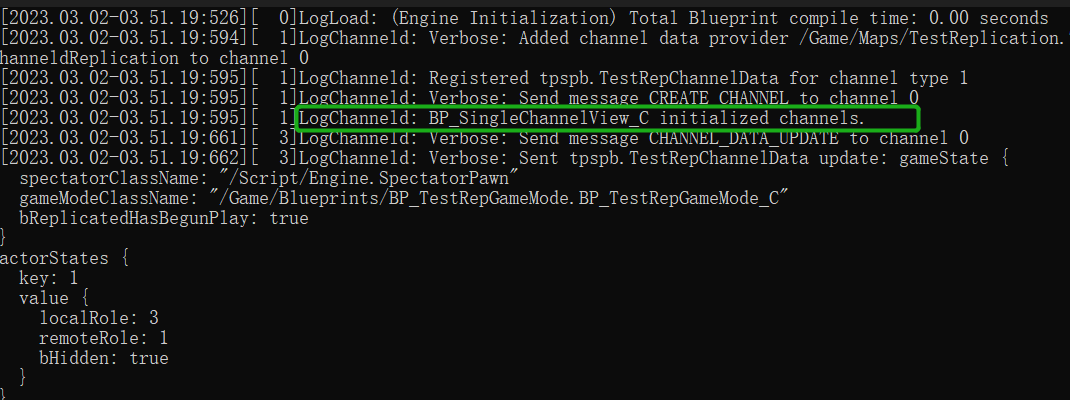
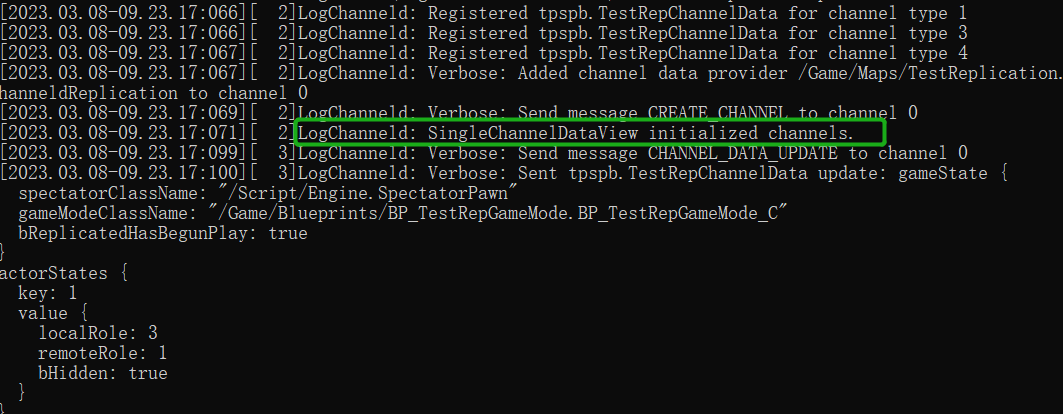
- Updated getting-started doc; - Added default values to UChanneldSettings;

diff --git a/Plugins/ChanneldUE/Source/ChanneldUE/ChanneldSettings.h b/Plugins/ChanneldUE/Source/ChanneldUE/ChanneldSettings.h
@@ -7,6 +7,7 @@
 #include "Tools/TintActor.h"
 #include "Tools/OutlinerActor.h"
 #include "View/PlayerStartLocator.h"
+#include "View/SingleChannelDataView.h"
 #include "ChanneldSettings.generated.h"
 
 /**
@@ -25,7 +26,7 @@ public:
 	void UpdateNetDriverDefinitions();
 
 	UPROPERTY(Config, EditAnywhere, Category="View")
-	TSubclassOf<class UChannelDataView> ChannelDataViewClass;
+	TSubclassOf<class UChannelDataView> ChannelDataViewClass = USingleChannelDataView::StaticClass();
 	// The default channel data message name for each channel type. The entries will be registered in UChannelDataView::Initialize.
 	// Every time the replication code is generated, the entries will be updated with the message names in the generated code.
 	UPROPERTY(Config, EditAnywhere, Category="View")
@@ -37,7 +38,7 @@ public:
 	};
 
 	UPROPERTY(Config, EditAnywhere, Category = "Transport")
-	bool bEnableNetworking = true;
+	bool bEnableNetworking = false;
 	
 	UPROPERTY(Config, EditAnywhere, Category = "Transport")
 	FString ChanneldIpForClient = "127.0.0.1";

diff --git a/Plugins/ChanneldUE/Docs/zh/getting-started.md b/Plugins/ChanneldUE/Docs/zh/getting-started.md
@@ -18,12 +18,22 @@ protoc-gen-go - Protobuf的go代码生成工具
 
 # 2.创建第三人称模板项目
 ## 2.1.创建项目并复制插件
-新建一个基于第三人称模板的UE蓝图项目：在Unreal Project Browser中选择"Game" -> "Third Person" -> "Blueprint"。
+新建一个基于第三人称模板的UE蓝图项目：在Unreal Project Browser中选择"Game" -> "Third Person" -> "C++"。
+
+```
+注意：ChannelUE插件只支持C++项目。如果您使用的是纯蓝图项目，需要先转换为C++项目。
+```
 
 项目创建后，关闭UE编辑器。将1.1.步骤中克隆的插件代码仓库目录复制到项目的`Plugins`目录下。
 
-## 2.2.编译运行项目并开启插件
-双击项目的`*.uproject`文件，再次打开项目。UE编辑器会提示编译插件中的模块。编译完成后，编辑器工具栏会出现插件图标：
+修改项目Build.cs文件，添加插件的模块`ChanneldUE`和`ProtobufUE`：
+```csharp
+PublicDependencyModuleNames.AddRange(new string[] { "Core", "CoreUObject", "Engine", "InputCore", "ChanneldUE", "ProtobufUE" });
+```
+
+## 2.2.重新编译运行项目并开启插件
+在文件浏览器中右键点击项目的`*.uproject`文件，选择"Generate Visual Studio project files"，重新生成项目的解决方案文件。
+在Visual Studio中重新加载解决方案，并编译运行项目。当UE编辑器再次打开时，工具栏会出现插件图标：
 
 ![](../images/toolbar_channeld.png)
 
@@ -36,17 +46,23 @@ protoc-gen-go - Protobuf的go代码生成工具
 
 ![](../images/character_rep_component.png)
 
-然后，新建第三人称控制器的蓝图`ThirdPersonPlayerController`，并为其添加同步组件。
+然后，新建第三人称控制器的蓝图`ThirdPersonPlayerController`，在类默认值中勾选`复制(Replicates)`，并为其添加同步组件：
 
-因为`GameStateBase`和`PlayerState`分别负责同步游戏和玩家中的状态，还需要创建分别为它们创建添加了同步组件的蓝图类：
+![](../images/player_controller_bp.png)
+
+接下来，因为`GameStateBase`和`PlayerState`分别负责同步游戏和玩家中的状态，还需要创建分别为它们创建蓝图类，并同样地，开启`复制(Replicates)`，添加同步组件：
 
 ![](../images/game_state_base.png)
+
+```
+提示：此处选择GameStateBase或ChanneldGameState都可以。如果要在之后的开发中使用到跨服的GameState功能，则需要选择ChanneldGameState。
+```
 
 ![](../images/player_state.png)
 
 
 ```
-提示：记得在添加同步组件后，编译和保存上述蓝图！
+小贴士：记得在开启Relicates和添加同步组件后，编译和保存上述蓝图！
 ```
 
 最后，添加一个新的GameMode蓝图`ThirdPersonGameMode`（如果已存在，则打开），并为其设置Game State Class, Player Controller Class, Player State Class和Default Pawn Class：
@@ -64,15 +80,15 @@ protoc-gen-go - Protobuf的go代码生成工具
 
 ![](../images/settings_view_class.png)
 
-`BP_SingleChannelView`是插件中内置的视图蓝图类，它会在服务端创建**全局频道**，并在客户端连接成功后订阅到该频道。订阅成功后，客户端发送的网络数据会通过channeld转发到全局频道的所有者，即创建该频道的服务端。
+`SingleChannelDataView`是插件中内置的视图蓝图类，它会在服务端创建**全局频道**，并在客户端连接成功后订阅到该频道。订阅成功后，客户端发送的网络数据会通过channeld转发到全局频道的所有者，即创建该频道的服务端。
 
-## 3.2.配置服务器组
+## 3.2.配置服务器组提示
 作为UE的分布式架构扩展，ChanneldUE插件支持同时启动多个UE服务器进程，每个进程可以配置自己的视图和启动参数。
 要添加一个服务器组，打开主菜单`编辑 -> 编辑器偏好设置 -> 插件 -> Channeld Editor`。点击`Server Groups`一栏的加号按钮，并展开设置项：
 
 ![](../images/settings_server_group.png)
 
-确保Enabled为勾选，Server Num为1，并设置Server View Class同样为`BP_SingleChannelView`。Server Map留空则表示启动服务器时，会使用编辑器当前打开的地图。
+确保Enabled为勾选，Server Num为1，并设置Server View Class同样为`SingleChannelDataView`。Server Map留空则表示启动服务器时，会使用编辑器当前打开的地图。
 
 # 4.启动channeld服务和游戏服务器
 点击工具栏中插件图标的下拉按钮，确保`Enable Channeld Networking`为选中状态：
@@ -90,12 +106,28 @@ protoc-gen-go - Protobuf的go代码生成工具
 ```
 
 # 5.运行游戏并测试
-在Play Standalone模式下运行游戏。此时客户端尚未连接到channeld，需要手动连接。在客户端的控制台中输入`connect 127.0.0.1`并回车。观察到客户端重新加载地图并创建角色，说明连接成功。
+## 5.1.测试单个客户端
+确保在`运行Standalone`网络模式下运行游戏。此时客户端尚未连接到channeld，需要手动连接。在客户端的控制台中输入`connect 127.0.0.1`并回车。观察到客户端重新加载地图并创建角色，说明连接成功。
 
 在地图中移动角色，并观察服务器的控制台中打印的日志，会出现对应的同步数据输出：
 
 ![](../images/server_replication_output.png)
 
+## 5.2.测试多个客户端
+如果要同时开启多个客户端，需要对默认的编辑器设置做一些修改。打开主菜单`编辑 -> 编辑器偏好设置 -> 关卡编辑器 -> 播放`，在`Multiplayer options`中，**取消**`单进程下的运行`的勾选：
+
+![](../images/settings_run_under_one_process.png)
+
+```
+原理：在网络底层，ChanneldConnection类负责和channeld网关服务进行连接，并进行创建、订阅、退订频道等操作。
+因为一个UE或UE编辑器进程只能存在一个ChanneldConnection对象，所以在单进程下，同时存在多个客户端或服务端会出现错误。
+```
+
+此时，增加玩家数量并运行游戏。第一个客户端窗口会立刻出现；其它客户端窗口会稍后出现，因为它们都是单独的UE进程，需要一些时间启动。
+
+在每个客户端窗口中，打开控制台并输入`connect 127.0.0.1`。观察多个客户端之间的同步。
+
+在入门教程中，客户端都需要通过这种方式手动连接。*频道数据视图*的章节中，将会介绍如何通过扩展视图，在蓝图中建立连接。
 
 # 6.基本的开发工作流
 ## 6.1.创建有同步变量的Actor
@@ -140,7 +172,7 @@ protoc-gen-go - Protobuf的go代码生成工具
 
 在ChanneldUE中，已经内置了Actor，Character，PlayerController等常用类的同步代码，所以我们只需要为新添加的`BP_TestActor`和`BP_ThirdPersonPlayerController`生成同步代码。
 
-首先，点击插件工具栏中的`Stop Serveres`关闭之前开启的游戏服务器。然后，点击`Stop Channeld`关闭之前开启的channeld服务：
+首先，点击插件工具栏中的`Stop Servers`关闭之前开启的游戏服务器。然后，点击`Stop Channeld`关闭之前开启的channeld服务：
 
 // TODO 截图
 
@@ -175,18 +207,47 @@ protoc-gen-go - Protobuf的go代码生成工具
 下面将介绍如何在UE中通过配置的方式使用空间频道。
 
 ## 7.2.在项目设置中配置空间频道
+打开主菜单`编辑 -> 项目设置 -> 插件 -> Channeld`，将Channel Data View Class改为`SpatialChannelDataView`。该类会成为客户端使用的频道数据视图类。为了让空间频道更直观地显示出来，还需要对ChannelUE内置的空间频道可视化工具进行配置。
 
 
-## 7.3.在编辑器设置中配置空间频道服务器
+接下来，还需要配置服务端使用的频道数据视图类。
 
-## 7.4 运行游戏并测试
+## 7.3.在编辑器设置中配置主服务器和空间服务器
+在7.1.中介绍过，空间频道运行于空间服务器上，一个空间服务器可以对应一到多个空间频道。然而一个游戏世界背后的服务器往往不止有空间服务器，因为像玩家进入游戏后初始位置（即所属空间频道）的分配、全局的状态管理（如GameState）等逻辑，都需要一个跨越空间的服务器来处理，这个服务器在channeld中被称为**主服务器**。主服务器即全局频道的所有者。
 
-# 故障排查
+打开主菜单`编辑 -> 编辑器偏好设置 -> 插件 -> Channeld Editor`。在`Server Groups`中，将第一服务器组的视图类(Server View Class)改为`SpatialChannelDataView`。
+
+接下来，点击`Server Groups`右侧的加号，添加一个新的服务器组。将新的服务器组的视图类(Server View Class)改为`SpatialSpaceServerView`。将服务器数量(Server Num)改为2，表示有两个空间服务器。将启动延时(Delay Time)改为2.0秒，保证主服务器启动后，再启动空间服务器。设置好的服务器组如下图所示：
+
+![](../images/settings_server_groups_spatial.png)
+
+
+## 7.4.运行游戏并测试
+重复步骤4，重启channeld服务和游戏服务器。可以观察到，3个UE服务器进程依次启动。其中2个空间服务器进程在启动成功后，会打印出创建空间频道成功的日志：
+
+```log
+LogChanneld: Created spatial channels: 65536,65537 （空间服务器1）
+LogChanneld: Created spatial channels: 65538,65539 （空间服务器2）
+```
+
+重复步骤5，运行游戏并连接到服务器。
+
+# 8.总结
+以上是ChanneldUE的基本功能展示。如果您想要深入理解channeld的概念，可以浏览[基本概念](../concepts.md)章节；如果您想要动手尝试更多的功能，比如：
+- 配置更多空间服务来运行更多的空间频道
+- 控制客户端接收的同步范围
+- 让GameState在多个空间服务器上同步属性
+
+可以浏览后面的进阶主题；也可以下载[ChanneldUE示例项目](https://github.com/channeld/channeld-ue-demos)。
+
+# 9.故障排查
 ## 无法启动channeld服务
 
 ## 游戏服务器启动后自动退出
 
 ## 无法保存蓝图
+
+## 项目中存在其它Protobuf库或模块的冲突
 
 ## Setup脚本没有下载channeld
 如果您在运行Setup前，已经配置了环境变量%CHANNELD_PATH%，Setup脚本会认为您已经安装了channeld，并跳过下载安装步骤。插件会根据环境变量%CHANNELD_PATH%来运行channeld。

diff --git a/Plugins/ChanneldUE/Docs/zh/README.md b/Plugins/ChanneldUE/Docs/zh/README.md
@@ -10,5 +10,6 @@
 ### 和原生UE的差异以及替代方案
 ### 频道数据视图
 ### 客户端兴趣管理
+### 跨服交互
 ### 扩展channeld和插件
 ## 常见问答
